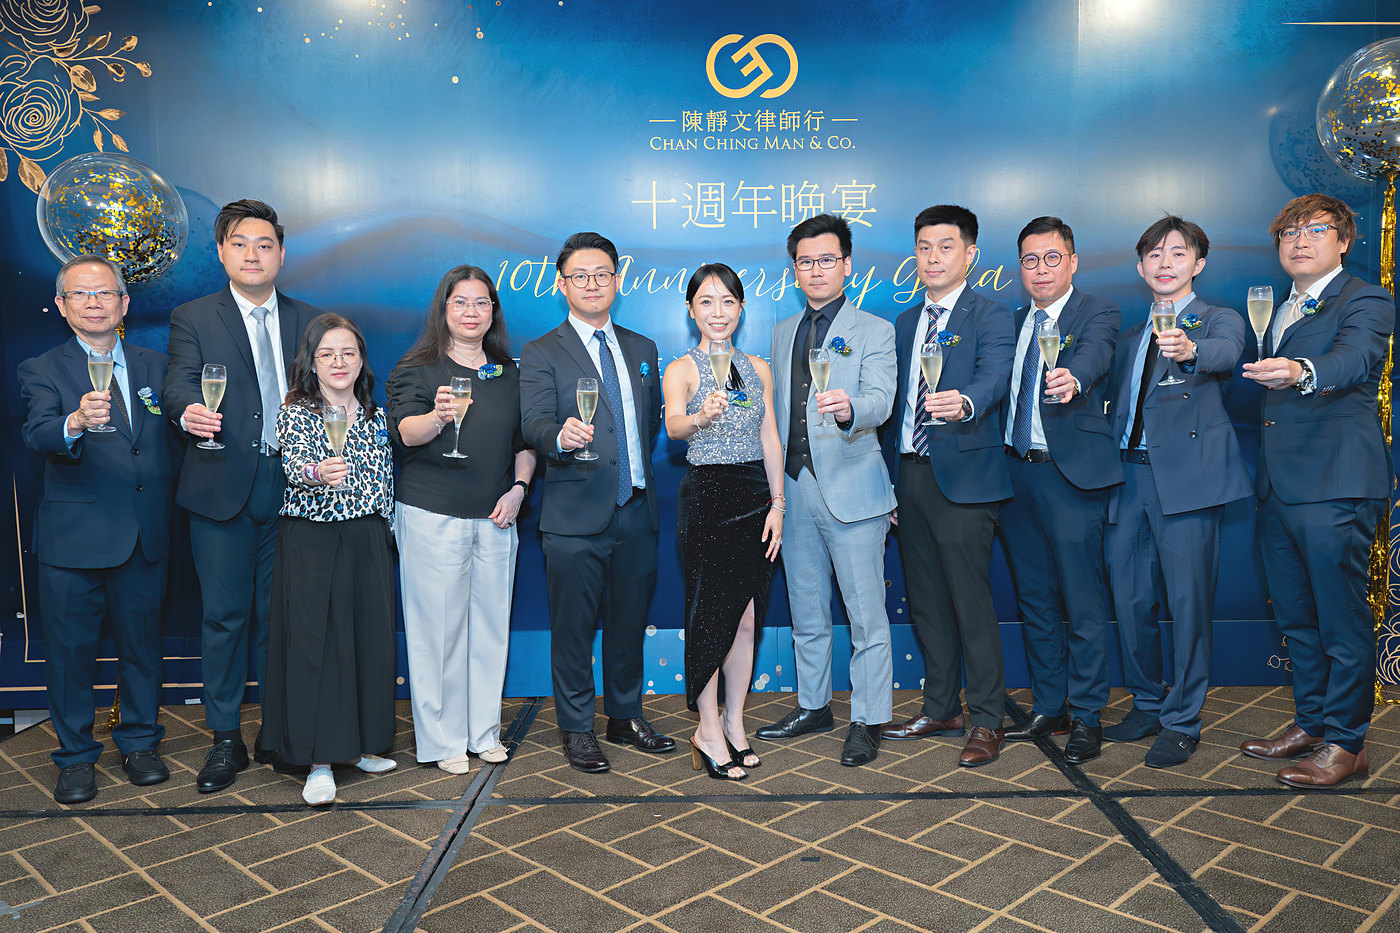
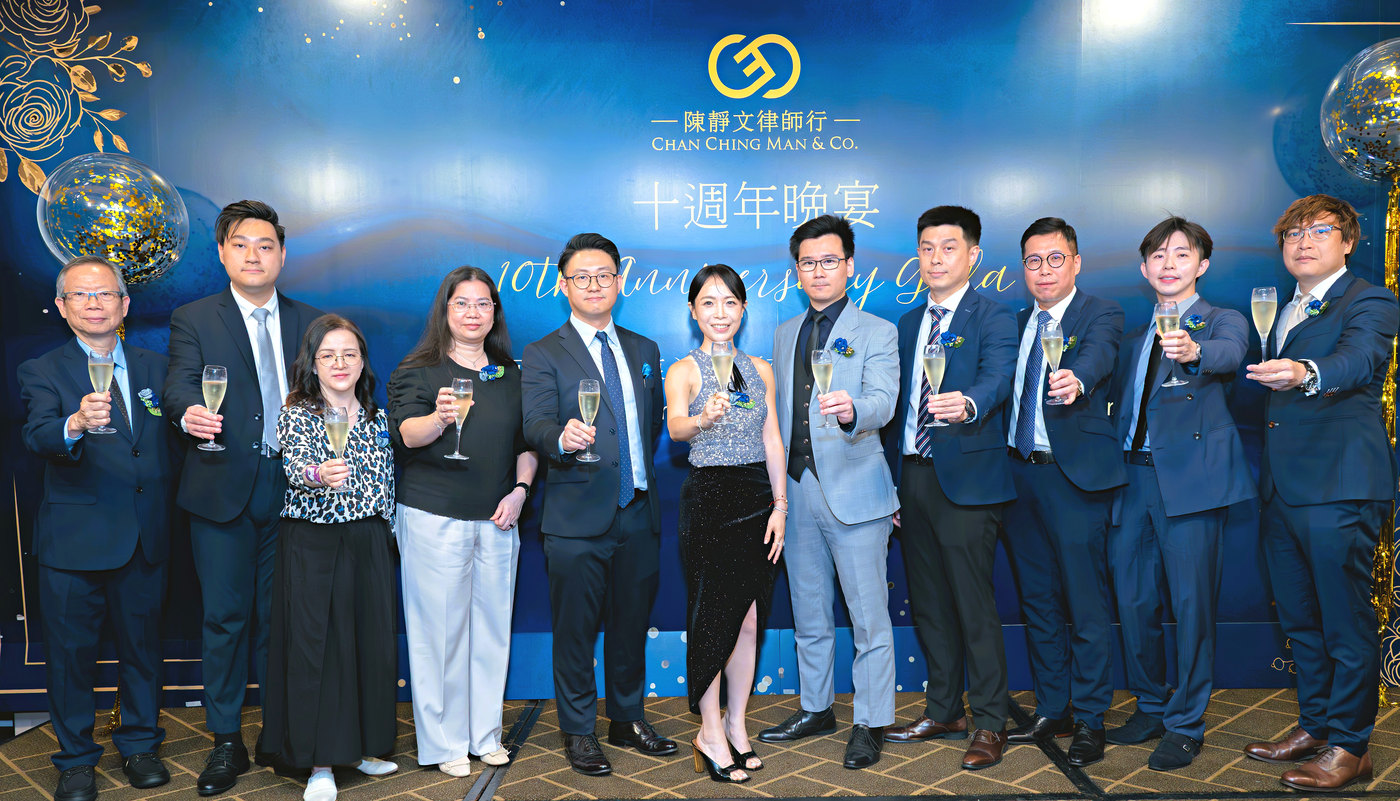
Replace Milestone / 10th Anniversary News photo with new group toast portrait

diff --git a/index-v4.html b/index-v4.html
@@ -617,7 +617,7 @@
             <div class="news-more"><span class="en-inline">Read full article</span><span class="cn-inline">閱讀全文</span></div>
             <div class="news-full">
                 <figure class="news-photo">
-                    <img loading="lazy" decoding="async" src="images/news/ccm-10th-anniversary-gala-2026.jpg" width="1400" height="933" alt="The CCM team raising a toast at the 10th Anniversary Gala on 29 May 2026 / 陳靜文律師行團隊於 2026 年 5 月 29 日十周年慶典晚宴上舉杯祝酒">
+                    <img loading="lazy" decoding="async" src="images/news/ccm-10th-anniversary-gala-2026.jpg?v=2" width="1400" height="801" alt="The CCM team raising a toast at the 10th Anniversary Gala on 29 May 2026 / 陳靜文律師行團隊於 2026 年 5 月 29 日十周年慶典晚宴上舉杯祝酒">
                     <figcaption><span class="en-inline">CCM 10th Anniversary Gala · 29 May 2026</span><span class="cn-inline">陳靜文律師行十周年慶典晚宴 · 2026 年 5 月 29 日</span></figcaption>
                 </figure>
                 <div class="en">

diff --git a/index.html b/index.html
@@ -617,7 +617,7 @@
             <div class="news-more"><span class="en-inline">Read full article</span><span class="cn-inline">閱讀全文</span></div>
             <div class="news-full">
                 <figure class="news-photo">
-                    <img loading="lazy" decoding="async" src="images/news/ccm-10th-anniversary-gala-2026.jpg" width="1400" height="933" alt="The CCM team raising a toast at the 10th Anniversary Gala on 29 May 2026 / 陳靜文律師行團隊於 2026 年 5 月 29 日十周年慶典晚宴上舉杯祝酒">
+                    <img loading="lazy" decoding="async" src="images/news/ccm-10th-anniversary-gala-2026.jpg?v=2" width="1400" height="801" alt="The CCM team raising a toast at the 10th Anniversary Gala on 29 May 2026 / 陳靜文律師行團隊於 2026 年 5 月 29 日十周年慶典晚宴上舉杯祝酒">
                     <figcaption><span class="en-inline">CCM 10th Anniversary Gala · 29 May 2026</span><span class="cn-inline">陳靜文律師行十周年慶典晚宴 · 2026 年 5 月 29 日</span></figcaption>
                 </figure>
                 <div class="en">

diff --git a/sw.js b/sw.js
@@ -4,7 +4,7 @@
  * is not the current CACHE, and skipWaiting()/clients.claim() make the new
  * worker take over promptly so users do not get stuck on a stale version.
  */
-const CACHE = 'ccm-v4-20261110i';
+const CACHE = 'ccm-v4-20261110j';
 const ASSETS = [
   './',
   './index.html',
